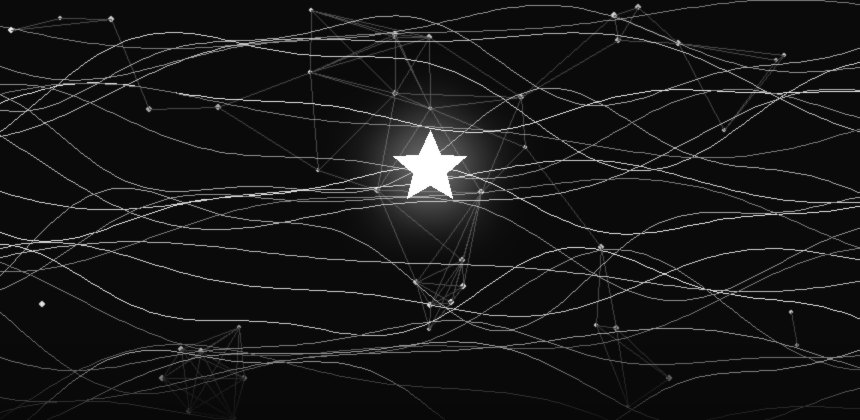
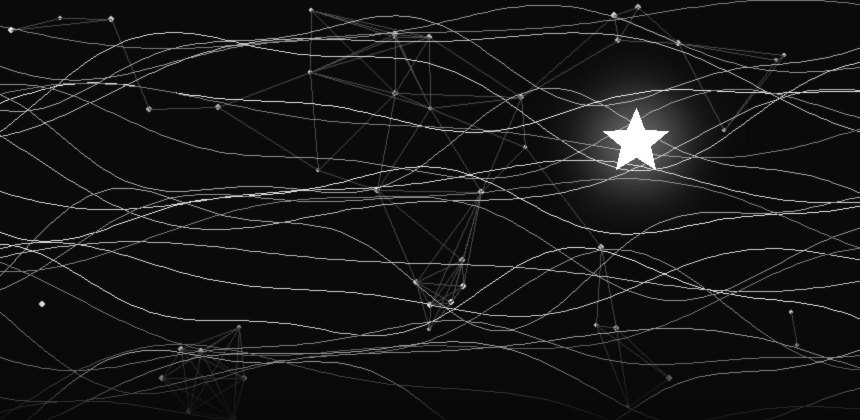
Contato no topo, foto maior e ajustes de celular (codigo cabendo, amostras e estrela no canto)

Changed region(s): [[0.4233, 0.2476, 0.5744, 0.5571], [0.6651, 0.1857, 0.8163, 0.4952]]

diff --git a/index.html b/index.html
@@ -64,6 +64,18 @@ nav .wrap{display:flex;align-items:center;justify-content:space-between;height:6
 .btn-g{border:1px solid var(--line2);color:var(--ink);background:rgba(255,255,255,.03)}
 .btn-g:hover{border-color:#fff;background:rgba(255,255,255,.07)}
 @media(max-width:820px){.menu{display:none}}
+/* contato no topo -- vale no computador e no celular */
+.nav-dir{display:flex;align-items:center;gap:8px}
+.ico{width:38px;height:38px;border-radius:11px;display:grid;place-items:center;color:var(--ink2);
+  border:1px solid var(--line2);background:rgba(255,255,255,.03);transition:background .2s,color .2s,transform .2s}
+.ico svg{width:18px;height:18px}
+.ico:hover{background:#fff;color:#000;transform:translateY(-2px)}
+@media(max-width:620px){
+  .nav-dir{gap:6px}
+  .ico{width:34px;height:34px;border-radius:10px}.ico svg{width:16px;height:16px}
+  .nav-dir .cv{padding:9px 12px;font-size:12.5px}
+  .logo span{display:none}
+}
 
 /* capa -- a faixa do topo, estilo LinkedIn */
 .cover{position:relative;height:clamp(190px,26vw,310px);margin-top:68px;overflow:hidden;border-bottom:1px solid var(--line)}
@@ -79,7 +91,7 @@ nav .wrap{display:flex;align-items:center;justify-content:space-between;height:6
 .hero-grid{display:grid;grid-template-columns:.92fr 1.08fr;gap:52px;align-items:center}
 .tag{display:inline-flex;align-items:center;gap:10px;font-family:var(--mono);font-size:12.5px;color:var(--ink);
   border:1px solid var(--line2);background:rgba(255,255,255,.04);padding:7px 14px;border-radius:999px}
-.avatar{width:132px;height:132px;border-radius:50%;object-fit:cover;display:block;margin:-74px 0 20px;position:relative;z-index:3;
+.avatar{width:156px;height:156px;border-radius:50%;object-fit:cover;display:block;margin:-86px 0 20px;position:relative;z-index:3;
   border:4px solid var(--bg);box-shadow:0 0 0 1px var(--line2),0 24px 50px -20px #000;transition:transform .45s cubic-bezier(.2,.8,.2,1)}
 .avatar:hover{transform:scale(1.06) rotate(-2deg)}
 @media(max-width:620px){.avatar{width:104px;height:104px;margin-top:-58px}}
@@ -183,12 +195,14 @@ h2{font-family:var(--disp);font-size:clamp(30px,4vw,48px);letter-spacing:-1.4px;
 .p.hide{display:none}
 @media(max-width:960px){.grid{grid-template-columns:1fr 1fr}} @media(max-width:620px){.grid{grid-template-columns:1fr}}
 
-/* celular: 11 cards empilhados viravam uma rolagem sem fim. Mostra 4 e
-   o resto entra no "ver mais". No desktop o botao nem existe. */
-#ver-mais{display:none}
+/* celular: listas longas viravam uma rolagem sem fim. Mostra uma amostra e
+   o resto entra num "ver mais". No desktop esses botoes nem existem. */
+.abrir-mais{display:none}
 @media(max-width:620px){
-  #ver-mais{display:inline-flex;margin-top:22px}
-  .grid.encolhido .p.extra{display:none}
+  .abrir-mais{display:inline-flex;margin-top:20px}
+  .grid.encolhido .p.extra,
+  .certs.encolhido .ce.extra,
+  .shots.encolhido img.extra{display:none}
   /* sem mouse nao ha hover: o card no meio da tela acende sozinho */
   .p.ativo{border-color:var(--line2);transform:translateY(-4px);box-shadow:0 24px 60px -30px rgba(255,255,255,.18)}
   .p.ativo .ic{transform:translateY(-3px) rotate(-8deg) scale(1.08);background:#fff;color:#000}
@@ -252,8 +266,20 @@ h2{font-family:var(--disp);font-size:clamp(30px,4vw,48px);letter-spacing:-1.4px;
 footer{padding:40px 0;color:var(--ink3);font-size:13px;text-align:center;font-family:var(--mono)}
 footer .star{color:#fff}
 
-@media(max-width:620px){.term pre{font-size:12.5px;line-height:1.8;padding:24px 20px;white-space:pre;overflow-x:auto}
-  .m .v{font-size:26px}section{padding:80px 0}.contact{padding:44px 22px}}
+@media(max-width:620px){
+  /* o codigo inteiro tem de caber na tela: a fonte acompanha a largura em vez
+     de obrigar a arrastar pro lado pra ler os comentarios */
+  /* a fonte segue a largura da tela: a linha mais longa tem 54 caracteres e a
+     fonte mono gasta 0.6em por caractere, entao cabe de 360px pra cima */
+  .term pre{font-size:clamp(8px,calc(2.9vw - 2.4px),12px);line-height:1.95;padding:22px 10px;white-space:pre;overflow-x:hidden}
+  .term-top{padding:14px 16px}
+  .m .v{font-size:26px}section{padding:80px 0}.contact{padding:44px 22px}
+  /* cards de projeto um pouco mais enxutos */
+  .p{padding:19px}
+  .p h4{font-size:18px}
+  .p p{font-size:13.5px;margin:8px 0 14px}
+  .p .ic{width:38px;height:38px;font-size:17px;margin-bottom:12px}
+}
 /* reveal */
 .rv{opacity:0;transform:translateY(28px);transition:opacity .8s cubic-bezier(.2,.8,.2,1),transform .8s cubic-bezier(.2,.8,.2,1)}
 .rv.in{opacity:1;transform:none}
@@ -267,12 +293,23 @@ footer .star{color:#fff}
 <div class="grain"></div>
 
 <nav id="nav"><div class="wrap">
-  <a href="#top" class="logo"><i>★</i>eduardo.pontes</a>
+  <a href="#top" class="logo"><i>★</i><span>eduardo.pontes</span></a>
   <div class="menu">
     <a href="#projetos">Projetos</a><a href="#trajetoria">Trajetória</a><a href="#impacto">Impacto</a>
     <a href="#smart-ranking">Smart Ranking</a><a href="#stack">Stack</a><a href="#contato">Contato</a>
   </div>
-  <a class="btn btn-g mag" href="Eduardo_Jacob_Pontes_CV.pdf" target="_blank" rel="noopener">Currículo ↓</a>
+  <div class="nav-dir">
+    <a class="ico" href="https://www.linkedin.com/in/eduardo-jacob-pontes-574b0b2b5" target="_blank" rel="noopener" aria-label="LinkedIn" title="LinkedIn">
+      <svg viewBox="0 0 24 24" fill="currentColor"><path d="M4.98 3.5a2.5 2.5 0 1 1 0 5 2.5 2.5 0 0 1 0-5zM3 9h4v12H3zM9 9h3.8v1.7h.05c.53-.95 1.83-1.95 3.77-1.95 4.03 0 4.78 2.5 4.78 5.76V21h-4v-5.6c0-1.34-.03-3.07-1.9-3.07-1.9 0-2.2 1.46-2.2 2.97V21H9z"/></svg>
+    </a>
+    <a class="ico" href="mailto:dudujpontes@gmail.com" aria-label="E-mail" title="dudujpontes@gmail.com">
+      <svg viewBox="0 0 24 24" fill="none" stroke="currentColor" stroke-width="2" stroke-linecap="round" stroke-linejoin="round"><rect x="2" y="4" width="20" height="16" rx="2"/><path d="m2 7 10 6 10-6"/></svg>
+    </a>
+    <a class="ico" href="https://wa.me/5521990200770" target="_blank" rel="noopener" aria-label="WhatsApp" title="(21) 99020-0770">
+      <svg viewBox="0 0 24 24" fill="none" stroke="currentColor" stroke-width="2" stroke-linecap="round" stroke-linejoin="round"><path d="M22 16.9v3a2 2 0 0 1-2.2 2 19.8 19.8 0 0 1-8.6-3.1 19.5 19.5 0 0 1-6-6A19.8 19.8 0 0 1 2.1 4.2 2 2 0 0 1 4.1 2h3a2 2 0 0 1 2 1.7c.1 1 .4 1.9.7 2.8a2 2 0 0 1-.4 2.1L8.1 9.9a16 16 0 0 0 6 6l1.3-1.3a2 2 0 0 1 2.1-.5c.9.4 1.8.6 2.8.7a2 2 0 0 1 1.7 2z"/></svg>
+    </a>
+    <a class="btn btn-g mag cv" href="Eduardo_Jacob_Pontes_CV.pdf" target="_blank" rel="noopener">Currículo ↓</a>
+  </div>
 </div></nav>
 
 <div class="cover">
@@ -378,7 +415,7 @@ footer .star{color:#fff}
       <a class="lk" href="https://github.com/EduardoJacobPontes/heroes-dc-" target="_blank" rel="noopener">github →</a></article>
   </div>
   <div class="rv" style="text-align:center;margin-top:10px">
-    <button class="btn btn-g" id="ver-mais">Ver mais projetos</button>
+    <button class="btn btn-g abrir-mais" id="ver-mais">Ver mais projetos</button>
   </div>
   <div class="rv" style="text-align:center;margin-top:38px">
     <a class="lk" style="font-size:15px;font-family:var(--mono);color:#fff" href="https://github.com/EduardoJacobPontes?tab=repositories" target="_blank" rel="noopener">ver todos os repositórios no GitHub →</a>
@@ -395,6 +432,9 @@ footer .star{color:#fff}
   </div>
   <div class="rv" style="margin:18px 0 20px"><div class="eyebrow">// certificações · <b>12</b></div></div>
   <div class="certs" id="certs"></div>
+  <div class="rv" style="text-align:center">
+    <button class="btn btn-g abrir-mais" id="ver-certs">Ver mais certificações</button>
+  </div>
 </div></section>
 
 <section id="impacto"><div class="wrap">
@@ -427,6 +467,9 @@ footer .star{color:#fff}
       <img src="img/smart-ranking-investors.jpg" alt="Ranking de Investors no Smart Ranking (dados fictícios)">
       <img src="img/smart-ranking-velocimetro.jpg" alt="Velocímetro de receita do Smart Ranking (dados fictícios)">
     </div>
+  </div>
+  <div class="rv" style="text-align:center">
+    <button class="btn btn-g abrir-mais" id="ver-prints">Ver mais imagens</button>
   </div>
 </div></section>
 
@@ -632,21 +675,37 @@ footer .star{color:#fff}
     });
   });
 
-  // ---- celular: "ver mais projetos" -------------------------------------
-  var grid = document.getElementById("grid"), verMais = document.getElementById("ver-mais");
-  var cards = [].slice.call(grid.querySelectorAll(".p"));
-  cards.forEach(function(c, i){ if (i >= 4) c.classList.add("extra"); });
-  grid.classList.add("encolhido");
-  verMais.textContent = "Ver mais " + (cards.length - 4) + " projetos";
-  verMais.addEventListener("click", function(){
-    grid.classList.remove("encolhido");
-    verMais.style.display = "none";
-  });
+  // ---- celular: amostra + "ver mais" ------------------------------------
+  // So vale no celular: no computador o CSS esconde o botao e nada e cortado.
+  function amostra(caixa, seletor, quantos, botao, rotulo){
+    var itens = [].slice.call(caixa.querySelectorAll(seletor));
+    var sobram = itens.length - quantos;
+    if (sobram <= 0) { botao.style.display = "none"; return null; }
+    itens.forEach(function(it, i){ if (i >= quantos) it.classList.add("extra"); });
+    caixa.classList.add("encolhido");
+    botao.textContent = "Ver mais " + sobram + " " + rotulo;
+    function abrir(){ caixa.classList.remove("encolhido"); botao.style.display = "none"; }
+    botao.addEventListener("click", abrir);
+    return abrir;
+  }
+
+  var estreito = window.innerWidth <= 620;
+  var grid = document.getElementById("grid");
+  // So no celular: "Teste e Qualidade" sai da amostra e vai pro fim, porque o
+  // Detector de Capacetes chama mais atencao numa primeira olhada. No
+  // computador a ordem dos cards fica exatamente como esta no HTML.
+  if (estreito) {
+    var fora = grid.querySelectorAll(".p")[2];
+    if (fora) grid.appendChild(fora);
+  }
+  var abrirProjetos = amostra(grid, ".p", 3, document.getElementById("ver-mais"), "projetos");
   // ao filtrar, abre tudo: senao o filtro esconderia cards que ja estao fora
-  document.getElementById("filters").addEventListener("click", function(){
-    grid.classList.remove("encolhido");
-    verMais.style.display = "none";
-  });
+  if (abrirProjetos) document.getElementById("filters").addEventListener("click", abrirProjetos);
+
+  amostra(document.getElementById("certs"), ".ce", 4,
+          document.getElementById("ver-certs"), "certificações");
+  amostra(document.querySelector(".shots"), "img", 2,
+          document.getElementById("ver-prints"), "imagens");
 
   // ---- celular: o card no meio da tela acende sozinho --------------------
   // No toque nao existe :hover, entao a pagina ficava parada ao rolar.
